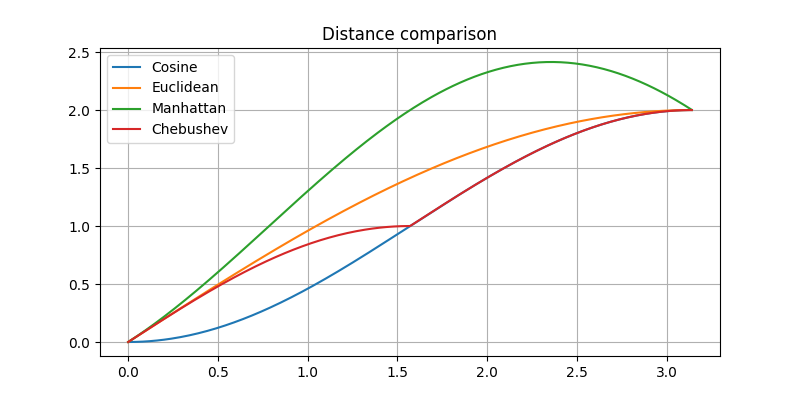
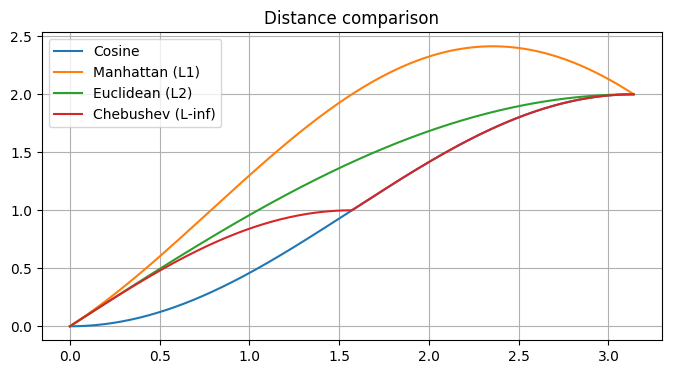
Added more comparisons of distance functions

diff --git a/scripts/cos_euc.py b/scripts/cos_euc.py
@@ -1,20 +1,43 @@
 import numpy as np
+import numpy.linalg as la
 import matplotlib.pyplot as plt
 import scipy.spatial.distance as dist
 
+probs = np.arange(0, 1, 0.01)
 theta = np.arange(0, np.pi, 0.01)
-cos = 1 - np.cos(theta)
-eucl = 2 * np.sin(theta / 2)
-manh = np.abs(np.sin(theta)) + np.abs(np.cos(theta) - 1)
-cheb = [dist.chebyshev([0, 1], [np.sin(phi), np.cos(phi)]) for phi in theta]
+
+
+def uniform_angle():
+    return np.array([[np.cos(phi), np.sin(phi)] for phi in theta])
+
+
+def prob_vector():
+    return np.array([[1 - p, p] for p in probs])
+
+
+def sub_mean(vectors):
+    return np.array([vector - vector.mean() for vector in vectors])
+
+
+def norm(vectors):
+    return np.array([vector / la.norm(vector) for vector in vectors])
+
+
+distances = {
+    'Cosine': dist.cosine,
+    'Manhattan (L1)': dist.cityblock,
+    'Euclidean (L2)': dist.euclidean,
+    'Chebushev (L-inf)': dist.chebyshev
+}
 
 plt.figure(figsize=[8, 4])
-plt.plot(theta, cos)
-plt.plot(theta, eucl)
-plt.plot(theta, manh)
-plt.plot(theta, cheb)
+for name, func in distances.items():
+    vals = np.array([func([1, 0], vector) for vector in sub_mean(prob_vector())])
+    vals = vals / vals.max()
+    plt.plot(probs, vals)
+
 plt.grid()
-plt.legend(['Cosine', 'Euclidean', 'Manhattan', 'Chebushev'])
+plt.legend(distances.keys())
 plt.title('Distance comparison')
-plt.savefig('dist.png')
+plt.savefig('pears.png', bbox_inches='tight')
 plt.show()

diff --git a/scripts/gaia_exp.py b/scripts/gaia_exp.py
@@ -1,0 +1,31 @@
+from __future__ import print_function
+from gaia2 import *
+from yaml import safe_dump
+from json import loads
+import resource
+
+ds = DataSet()
+data_file = 'data/lowlevel_json_1k.json'
+
+counter = 0
+limit = 1000
+step = 10
+
+print('Loading data', end='')
+with open(data_file) as infile:
+    for line in infile:
+        data = loads(line)
+
+        p = Point()
+        p.loadFromString(safe_dump(data), ['lowlevel.*', 'rhythm.*', 'tonal.*'])
+
+        p.setName('item' + str(counter))
+        ds.addPoint(p)
+        counter += 1
+        # if counter % step == 0:
+        print('.', end='')
+        if counter >= limit:
+            break
+
+memory = resource.getrusage(resource.RUSAGE_SELF).ru_maxrss
+print('Memory peak: {}'.format(memory))
